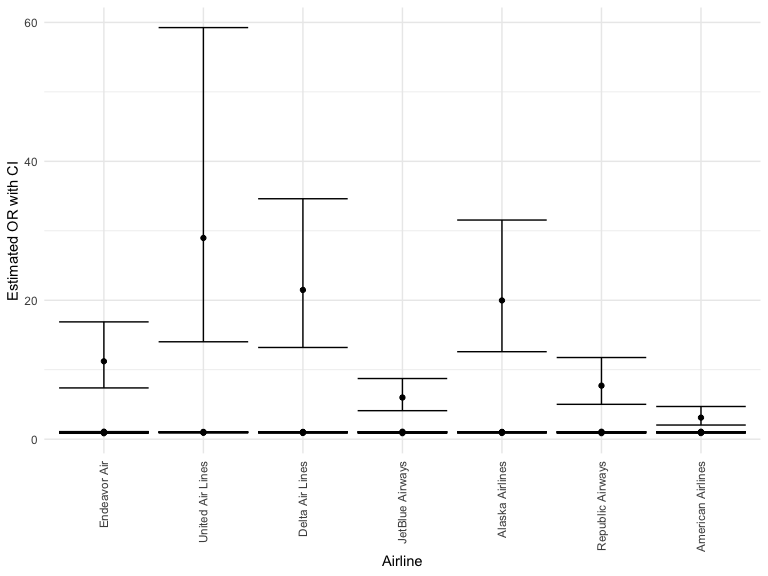
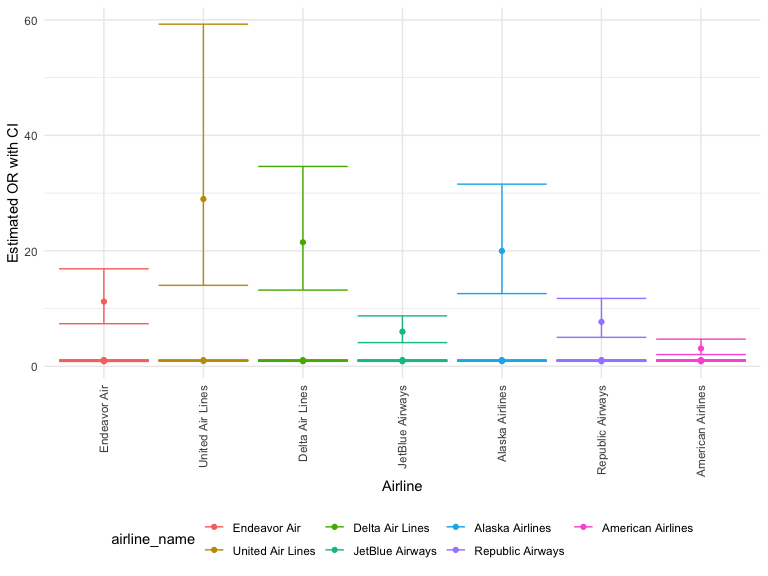
revise plot for poisson model

diff --git a/poisson_model.md b/poisson_model.md
@@ -324,7 +324,7 @@ Create a plot showing the estimated ORs and CIs for each airline
 ``` r
 poisson_by_airline %>% 
   mutate(airline_name = fct_reorder(airline_name, OR)) %>%
-  ggplot(aes(x = airline_name, y = OR)) +
+  ggplot(aes(x = airline_name, y = OR, color = airline_name)) +
   geom_point() +
   geom_errorbar(aes(ymin = CI_lower, ymax = CI_upper)) +
   theme(axis.text.x = element_text(angle = 90, vjust = 0.5, hjust = 1)) +
@@ -335,12 +335,12 @@ poisson_by_airline %>%
 
 ``` r
 poisson_by_airline %>%
+  mutate(airline_name = fct_reorder(airline_name, OR)) %>%
   filter(term != "(Intercept)") %>%
   ggplot(aes(x = airline_name, y = OR, color = term)) + 
-  geom_point() +
-  geom_errorbar(aes(ymin = CI_lower, ymax = CI_upper)) +
-  geom_hline(yintercept = 1, linetype="dashed", 
-                color = "darkred", size = 1, alpha = .7) +
+  geom_point(show.legend = FALSE, aes()) +
+  geom_errorbar(aes(ymin = CI_lower, 
+                    ymax = CI_upper)) +
   labs(
     title = "Estimated OR with 95% CI in Cancellation Count Data by Airline",
     x = "Airline",
